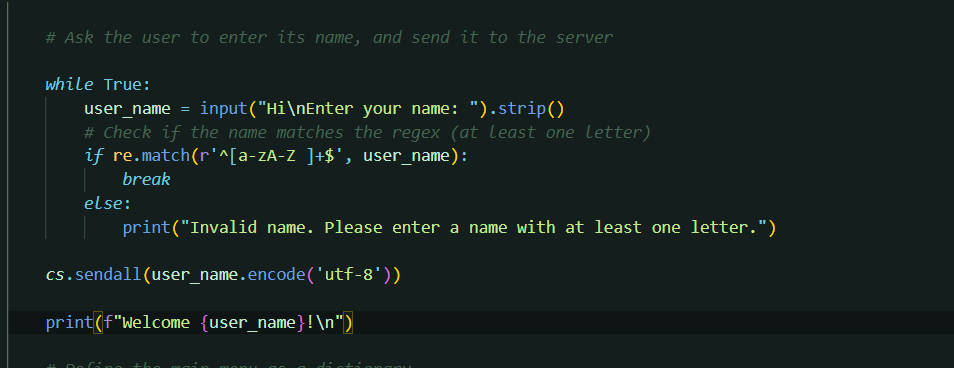
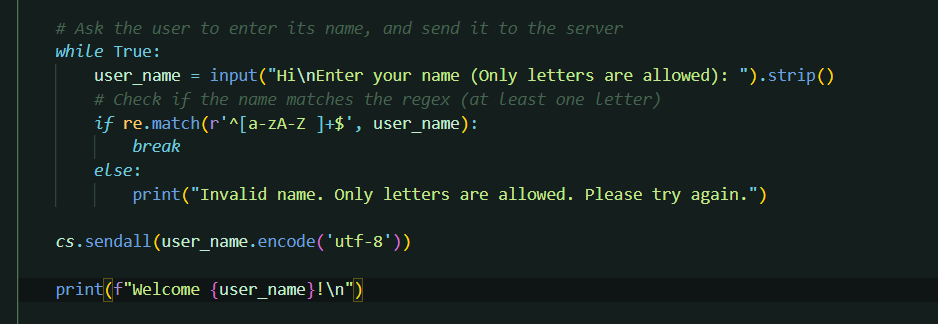
regfex updated

diff --git a/client/client.py b/client/client.py
@@ -42,12 +42,12 @@ def connection(cs):
 
     # Ask the user to enter its name, and send it to the server
     while True:
-        user_name = input("Hi\nEnter your name: ").strip()
+        user_name = input("Hi\nEnter your name (Only letters are allowed): ").strip()
         # Check if the name matches the regex (at least one letter)
         if re.match(r'^[a-zA-Z ]+$', user_name):
             break
         else:
-            print("Invalid name. Please enter a name with at least one letter.")
+            print("Invalid name. Only letters are allowed. Please try again.")
 
     cs.sendall(user_name.encode('utf-8'))
 
